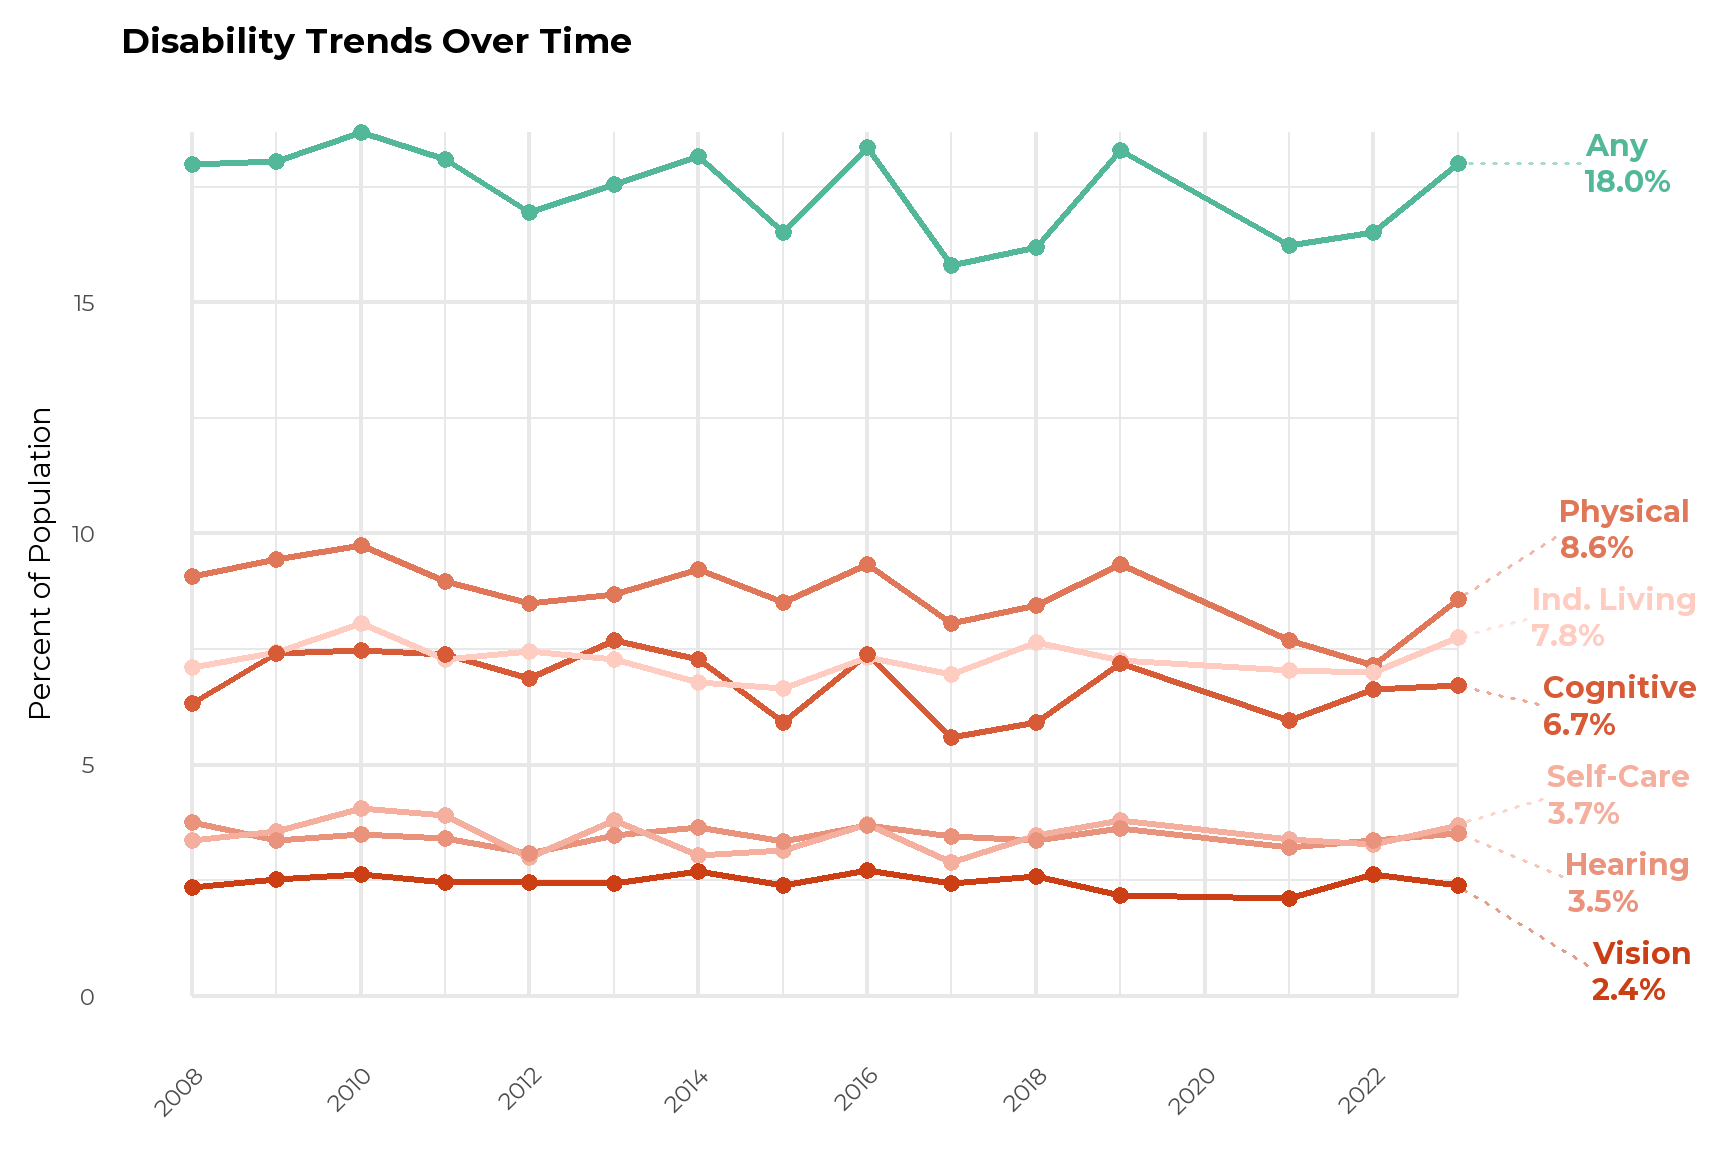
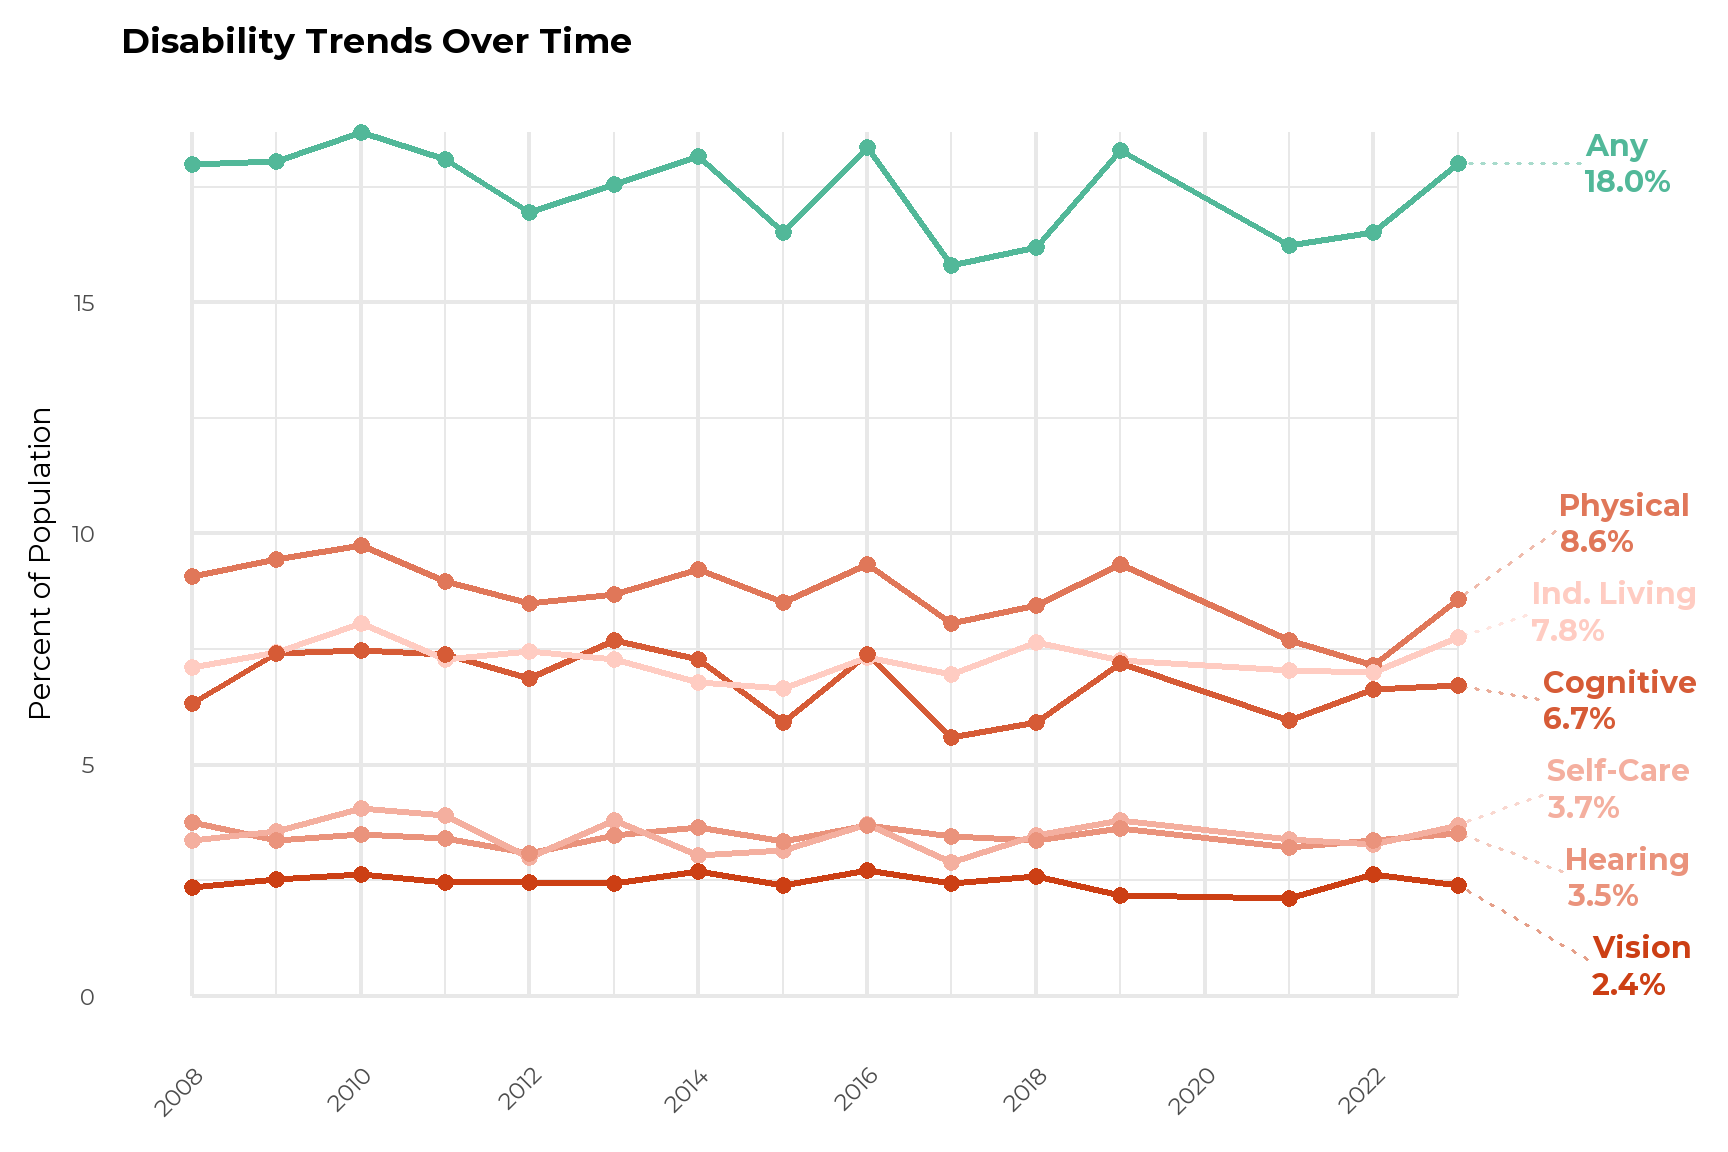
hh difficulty for wheelchair users

Changed region(s): [[0.875, 0.4062, 1.0, 0.875]]

diff --git a/docs/index.html b/docs/index.html
@@ -466,9 +466,14 @@ class="section level3">
 Device</h3>
 <p><img src="index_files/figure-html/hh_difficulty-1.png" width="864" /></p>
 </div>
+<div id="households-including-a-person-who-uses-a-wheelchair"
+class="section level3">
+<h3>Households Including a Person Who Uses a Wheelchair</h3>
+<p><img src="index_files/figure-html/unnamed-chunk-3-1.png" width="864" /></p>
+</div>
 <div id="all-households" class="section level3">
 <h3>All Households</h3>
-<p><img src="index_files/figure-html/unnamed-chunk-3-1.png" width="864" /></p>
+<p><img src="index_files/figure-html/unnamed-chunk-4-1.png" width="864" /></p>
 </div>
 </div>
 </div>
